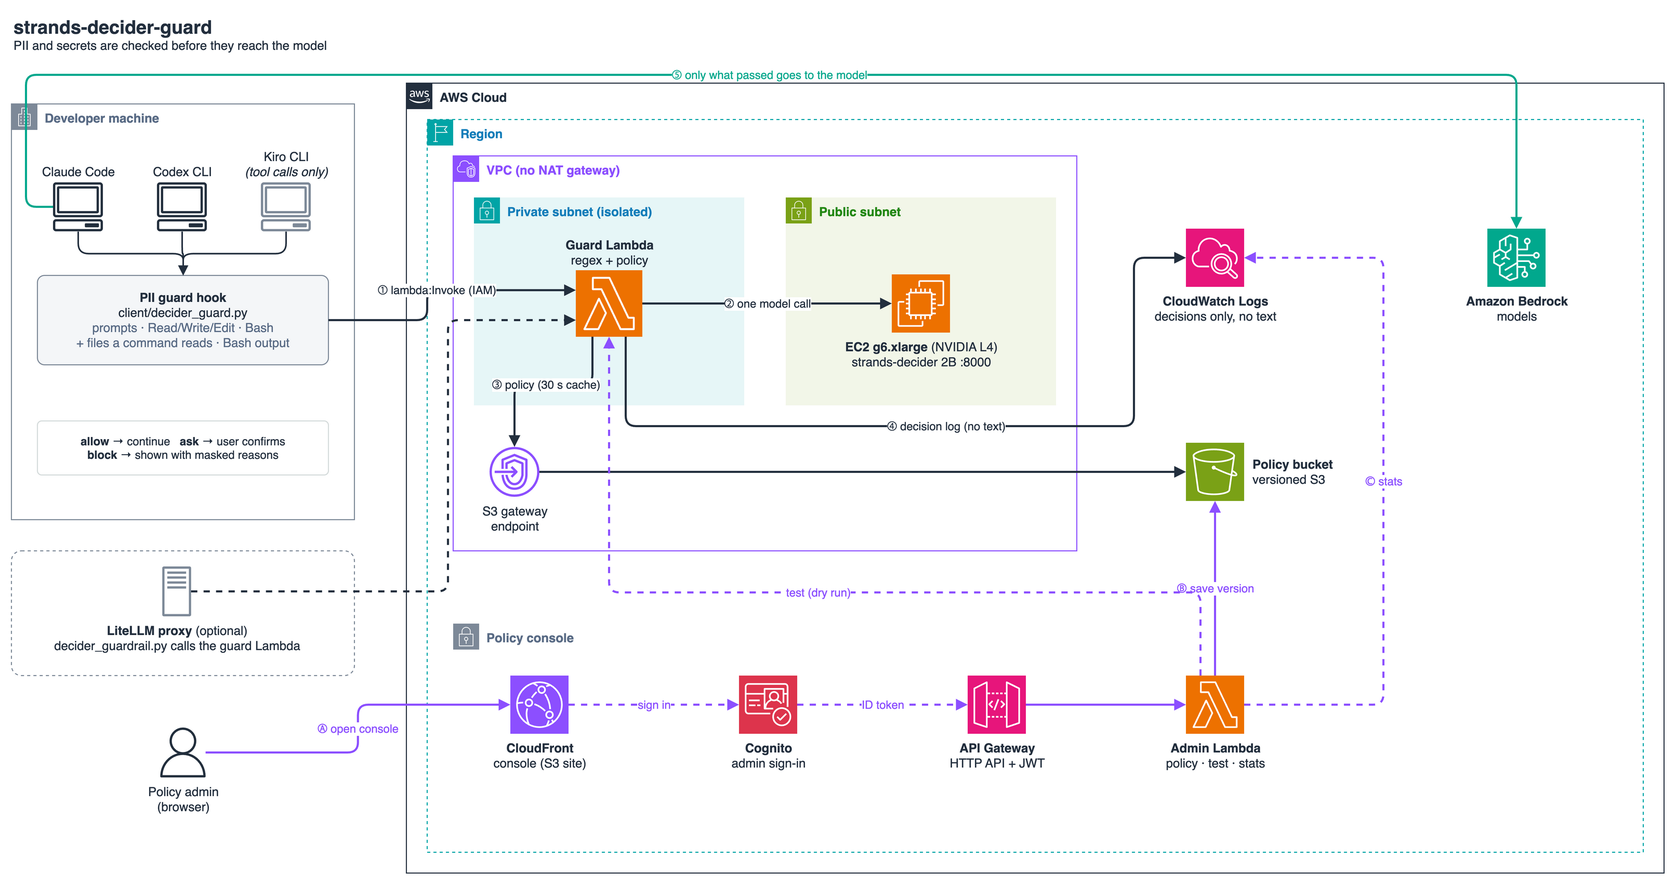
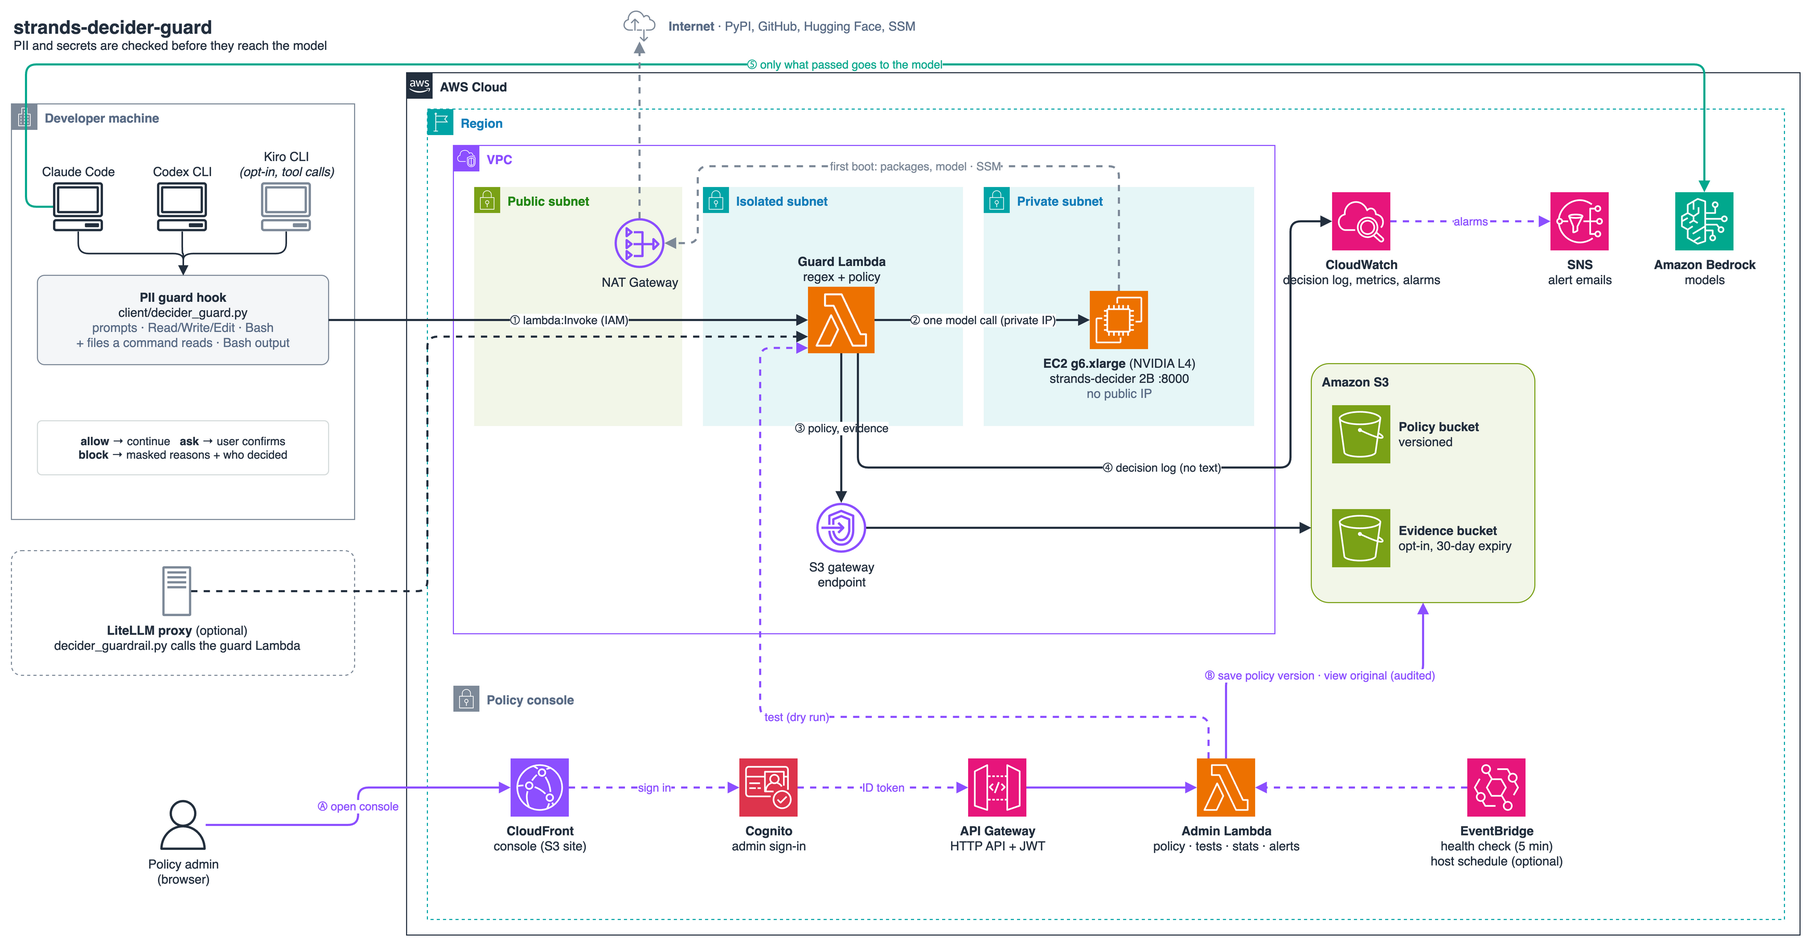
Run the GPU host in a private subnet behind a NAT Gateway by default
- CDK: network context nat (default) | public; host has no public IP in nat mode
- deploy.sh: --network, kept across redeploys; smoke test reads texts from demo data
- Redraw architecture (NAT, private subnet, S3 evidence, SNS, EventBridge); generator in docs/images/architecture.py
- Costs: add NAT (~$43/month), drop host IPv4; regenerate COMPARISON.md

diff --git a/cdk/lib/guard-stack.ts b/cdk/lib/guard-stack.ts
@@ -27,14 +27,20 @@ export class DeciderGuardStack extends cdk.Stack {
     const modelId = ctx('modelId');
     const deciderRef = ctx('deciderRef');
 
-    // No NAT: the decider host sits in a public subnet with no inbound rules except from the guard Lambda,
-    // and the Lambda sits in isolated subnets and only talks to the host's private IP.
+    // network=nat (default): the decider host sits in a private subnet with no public IP; it reaches PyPI, GitHub and
+    //   Hugging Face (first boot) and SSM through one NAT Gateway. network=public: the host sits in a public subnet with
+    //   a public IP and no NAT (cheaper, for demos). Either way the only inbound rule is the guard Lambda on port 8000,
+    //   and the Lambda sits in isolated subnets talking to the host's private IP. The private group is appended last so
+    //   switching modes keeps the existing subnets' CIDRs.
+    const network = (this.node.tryGetContext('network') as string | undefined) ?? 'nat';
+    if (!['nat', 'public'].includes(network)) throw new Error(`network must be nat or public, got ${network}`);
     const vpc = new ec2.Vpc(this, 'Vpc', {
       maxAzs: 2,
-      natGateways: 0,
+      natGateways: network === 'nat' ? 1 : 0,
       subnetConfiguration: [
         { name: 'public', subnetType: ec2.SubnetType.PUBLIC, cidrMask: 24 },
         { name: 'isolated', subnetType: ec2.SubnetType.PRIVATE_ISOLATED, cidrMask: 24 },
+        ...(network === 'nat' ? [{ name: 'private', subnetType: ec2.SubnetType.PRIVATE_WITH_EGRESS, cidrMask: 24 }] : []),
       ],
     });
 
@@ -92,7 +98,7 @@ export class DeciderGuardStack extends cdk.Stack {
     const spot = ['true', true].includes(this.node.tryGetContext('spot'));
     const host = new ec2.Instance(this, 'DeciderHost', {
       vpc,
-      vpcSubnets: { subnetType: ec2.SubnetType.PUBLIC },
+      vpcSubnets: { subnetType: network === 'nat' ? ec2.SubnetType.PRIVATE_WITH_EGRESS : ec2.SubnetType.PUBLIC },
       instanceType: new ec2.InstanceType(instanceType),
       // deploy.sh pins the running host's AMI (-c amiId=...) so a newer DLAMI release does not replace it on redeploy.
       machineImage: ctx('amiId')
@@ -102,7 +108,7 @@ export class DeciderGuardStack extends cdk.Stack {
       role,
       userData,
       requireImdsv2: !spot,   // with Spot, IMDSv2 is set on the launch template below
-      associatePublicIpAddress: true,
+      associatePublicIpAddress: network === 'public',
       blockDevices: [{ deviceName: '/dev/sda1', volume: ec2.BlockDeviceVolume.ebs(100, { volumeType: ec2.EbsDeviceVolumeType.GP3, encrypted: true }) }],
     });
     cdk.Tags.of(host).add('Name', `${this.stackName}-decider`);
@@ -153,6 +159,7 @@ export class DeciderGuardStack extends cdk.Stack {
     new cdk.CfnOutput(this, 'DeciderInstanceId', { value: host.instanceId });
     new cdk.CfnOutput(this, 'Region', { value: this.region });
     new cdk.CfnOutput(this, 'Market', { value: spot ? 'spot' : 'on-demand' });
+    new cdk.CfnOutput(this, 'Network', { value: network });
     new cdk.CfnOutput(this, 'EvidenceBucketName', { value: evidenceBucket.bucketName });
   }
 

diff --git a/docs/images/architecture.py b/docs/images/architecture.py
@@ -1,0 +1,128 @@
+"""Generate docs/images/architecture.drawio (draw.io AWS4 shapes). Edit the layout here or in draw.io, then render:
+   python3 architecture.py architecture.drawio && drawio -x -f png -s 2 -b 10 -o architecture.png architecture.drawio
+"""
+import sys
+from xml.sax.saxutils import escape
+
+cells, n = [], [1]
+def nid():
+    n[0] += 1
+    return f"c{n[0]}"
+
+BASE_ICON = ("sketch=0;outlineConnect=0;fontColor=#232F3E;gradientColor=none;strokeColor=#ffffff;dashed=0;"
+             "verticalLabelPosition=bottom;verticalAlign=top;align=center;html=1;fontSize=12;fontStyle=0;aspect=fixed;")
+LABEL_TOP = "verticalLabelPosition=top;verticalAlign=bottom;"
+LABEL_RIGHT = "labelPosition=right;verticalLabelPosition=middle;align=left;verticalAlign=middle;spacingLeft=6;"
+def service(label, res, color, x, y, size=56, label_at=""):
+    i = nid()
+    st = BASE_ICON + f"fillColor={color};shape=mxgraph.aws4.resourceIcon;resIcon=mxgraph.aws4.{res};"
+    st = st.replace("verticalLabelPosition=bottom;verticalAlign=top;align=center;", "verticalLabelPosition=bottom;verticalAlign=top;align=center;" + label_at)
+    cells.append((i, label, st, x, y, size, size, "1"))
+    return i
+def shape(label, shp, color, x, y, w=48, h=48, parent="1", top=False):
+    i = nid()
+    pos = "verticalLabelPosition=top;verticalAlign=bottom;" if top else "verticalLabelPosition=bottom;verticalAlign=top;"
+    st = (f"sketch=0;outlineConnect=0;fontColor=#232F3E;gradientColor=none;strokeColor=none;dashed=0;{pos}"
+          f"align=center;html=1;fontSize=12;fontStyle=0;aspect=fixed;pointerEvents=1;shape=mxgraph.aws4.{shp};fillColor={color};")
+    cells.append((i, label, st, x, y, w, h, parent))
+    return i
+def group(label, gr, stroke, font, x, y, w, h, fill="none", dashed=0, extra=""):
+    i = nid()
+    st = ("points=[];outlineConnect=0;gradientColor=none;html=1;whiteSpace=wrap;fontSize=12;fontStyle=1;container=0;pointerEvents=0;"
+          f"collapsible=0;recursiveResize=0;shape=mxgraph.aws4.group;grIcon=mxgraph.aws4.{gr};strokeColor={stroke};fillColor={fill};"
+          f"verticalAlign=top;align=left;spacingLeft=30;fontColor={font};dashed={dashed};{extra}")
+    cells.append((i, label, st, x, y, w, h, "1"))
+    return i
+def box(label, x, y, w, h, fill="#FFFFFF", stroke="#232F3E", extra=""):
+    i = nid()
+    st = f"rounded=1;whiteSpace=wrap;html=1;fillColor={fill};strokeColor={stroke};fontColor=#232F3E;fontSize=12;arcSize=8;{extra}"
+    cells.append((i, label, st, x, y, w, h, "1"))
+    return i
+edges = []
+def edge(src, dst, label="", color="#232F3E", dashed=0, pts=None, exit=None, entry=None, width=2):
+    st = (f"edgeStyle=orthogonalEdgeStyle;rounded=1;html=1;endArrow=block;endFill=1;strokeWidth={width};strokeColor={color};"
+          f"fontSize=11;fontColor={color};labelBackgroundColor=#FFFFFF;dashed={dashed};")
+    if exit: st += f"exitX={exit[0]};exitY={exit[1]};exitDx=0;exitDy=0;"
+    if entry: st += f"entryX={entry[0]};entryY={entry[1]};entryDx=0;entryDy=0;"
+    edges.append((nid(), label, st, src, dst, pts or []))
+
+DEV, ADM, NET = "#232F3E", "#8C4FFF", "#7D8998"
+box("<b style='font-size:18px'>strands-decider-guard</b><br>PII and secrets are checked before they reach the model",
+    20, 0, 560, 46, fill="none", stroke="none", extra="align=left;verticalAlign=middle;")
+inet = shape("", "internet_alt2", NET, 604, 0, 40, 30)
+box("<b>Internet</b> · PyPI, GitHub, Hugging Face, SSM", 650, 0, 320, 30, fill="none", stroke="none",
+    extra="align=left;verticalAlign=middle;fontColor=#5A6C86;")
+
+# ---- developer side
+group("Developer machine", "group_corporate_data_center", "#7D8998", "#5A6C86", 20, 90, 330, 400)
+cc = shape("Claude Code", "client", "#232F3D", 60, 165, top=True)
+cx = shape("Codex CLI", "client", "#232F3D", 160, 165, top=True)
+kr = shape("Kiro CLI<br><i>(opt-in, tool calls)</i>", "client", "#7D8998", 260, 165, top=True)
+hook = box("<b>PII guard hook</b><br>client/decider_guard.py<br><font color='#5A6C86'>prompts · Read/Write/Edit · Bash<br>+ files a command reads · Bash output</font>",
+           45, 255, 280, 86, fill="#F4F6F8", stroke="#7D8998")
+box("<b>allow</b> → continue &nbsp; <b>ask</b> → user confirms<br><b>block</b> → masked reasons + who decided", 45, 395, 280, 52,
+    fill="#FFFFFF", stroke="#D5DBDB", extra="fontSize=11;")
+for a_ in (cc, cx, kr):
+    edge(a_, hook, "", color=DEV, width=1.5)
+box("", 20, 520, 330, 120, fill="#FFFFFF", stroke="#7D8998", extra="dashed=1;")
+ll = shape("<b>LiteLLM proxy</b> (optional)<br>decider_guardrail.py calls the guard Lambda", "traditional_server", "#7D8998", 161, 535, 36, 48)
+admin = shape("Policy admin<br>(browser)", "user", "#232F3D", 161, 760)
+
+# ---- AWS
+group("AWS Cloud", "group_aws_cloud_alt", "#232F3E", "#232F3E", 400, 60, 1340, 830)
+group("Region", "group_region", "#00A4A6", "#147EBA", 420, 95, 1305, 780, dashed=1)
+group("VPC", "group_vpc2", "#8C4FFF", "#8C4FFF", 445, 130, 790, 470)
+group("Public subnet", "group_security_group", "#7AA116", "#248814", 465, 170, 200, 230, fill="#F2F6E8", extra="grStroke=0;")
+group("Isolated subnet", "group_security_group", "#00A4A6", "#147EBA", 685, 170, 250, 230, fill="#E6F6F7", extra="grStroke=0;")
+group("Private subnet", "group_security_group", "#00A4A6", "#147EBA", 955, 170, 260, 230, fill="#E6F6F7", extra="grStroke=0;")
+nat = shape("NAT Gateway", "nat_gateway", "#8C4FFF", 600, 200, 48, 48)
+guard = service("<b>Guard Lambda</b><br>regex + policy", "lambda", "#ED7100", 786, 266, size=64, label_at=LABEL_TOP)
+ec2 = service("<b>EC2 g6.xlarge</b> (NVIDIA L4)<br>strands-decider 2B :8000<br><font color='#5A6C86'>no public IP</font>", "ec2", "#ED7100", 1057, 270)
+gwe = shape("S3 gateway<br>endpoint", "endpoints", "#8C4FFF", 794, 474)
+
+logs = service("<b>CloudWatch</b><br>decision log, metrics, alarms", "cloudwatch_2", "#E7157B", 1290, 175)
+sns = service("<b>SNS</b><br>alert emails", "sns", "#E7157B", 1500, 175)
+bedrock = service("<b>Amazon Bedrock</b><br>models", "bedrock", "#01A88D", 1620, 175)
+s3 = box("<b>Amazon S3</b>", 1270, 340, 215, 230, fill="#F2F6E8", stroke="#7AA116",
+         extra="verticalAlign=top;align=left;spacingLeft=8;spacingTop=4;")
+policy = service("<b>Policy bucket</b><br>versioned", "s3", "#7AA116", 1290, 380, label_at=LABEL_RIGHT)
+evid = service("<b>Evidence bucket</b><br>opt-in, 30-day expiry", "s3", "#7AA116", 1290, 480, label_at=LABEL_RIGHT)
+
+group("Policy console", "group_security_group", "#7D8998", "#5A6C86", 445, 650, 1260, 200, extra="grStroke=0;")
+cf = service("<b>CloudFront</b><br>console (S3 site)", "cloudfront", "#8C4FFF", 500, 720)
+cog = service("<b>Cognito</b><br>admin sign-in", "cognito", "#DD344C", 720, 720)
+api = service("<b>API Gateway</b><br>HTTP API + JWT", "api_gateway", "#E7157B", 940, 720)
+adm = service("<b>Admin Lambda</b><br>policy · tests · stats · alerts", "lambda", "#ED7100", 1160, 720)
+eb = service("<b>EventBridge</b><br>health check (5 min)<br>host schedule (optional)", "eventbridge", "#E7157B", 1420, 720)
+
+# ---- flows
+edge(hook, guard, "① lambda:Invoke (IAM)", color=DEV, exit=(1, 0.5), entry=(0, 0.5))
+edge(ll, guard, "", color=DEV, dashed=1, exit=(1, 0.5), entry=(0, 0.75), pts=[(420, 559), (420, 314)])
+edge(guard, ec2, "② one model call (private IP)", color=DEV, exit=(1, 0.5), entry=(0, 0.5))
+edge(guard, gwe, "③ policy, evidence", color=DEV, exit=(0.5, 1), entry=(0.5, 0))
+edge(gwe, s3, "", color=DEV, exit=(1, 0.5), entry=(0, 0.687))
+edge(guard, logs, "④ decision log (no text)", color=DEV, exit=(0.75, 1), entry=(0, 0.5), pts=[(834, 440), (1250, 440), (1250, 203)])
+edge(cc, bedrock, "⑤ only what passed goes to the model", color="#01A88D", exit=(0, 0.5), entry=(0.5, 0), pts=[(34, 189), (34, 52), (1648, 52)])
+edge(ec2, nat, "first boot: packages, model · SSM", color=NET, dashed=1, exit=(0.5, 0), entry=(1, 0.5), pts=[(1085, 150), (680, 150), (680, 224)])
+edge(nat, inet, "", color=NET, dashed=1, exit=(0.5, 0), entry=(0.5, 1))
+edge(logs, sns, "alarms", color=ADM, dashed=1, exit=(1, 0.5), entry=(0, 0.5))
+edge(admin, cf, "Ⓐ open console", color=ADM, exit=(1, 0.5), entry=(0, 0.5))
+edge(cf, cog, "sign in", color=ADM, dashed=1)
+edge(cog, api, "ID token", color=ADM, dashed=1)
+edge(api, adm, "", color=ADM)
+edge(adm, s3, "Ⓑ save policy version · view original (audited)", color=ADM, exit=(0.5, 0), entry=(0.5, 1), pts=[(1188, 640), (1377, 640)])
+edge(adm, guard, "test (dry run)", color=ADM, dashed=1, exit=(0.2, 0), entry=(0, 0.92), pts=[(1171, 680), (740, 680), (740, 325)])
+edge(eb, adm, "", color=ADM, dashed=1, exit=(0, 0.5), entry=(1, 0.5))
+
+out = ['<mxfile host="drawio"><diagram name="architecture" id="arch"><mxGraphModel dx="1600" dy="900" grid="1" gridSize="10" guides="1" '
+       'tooltips="1" connect="1" arrows="1" fold="1" page="1" pageScale="1" pageWidth="1760" pageHeight="1000" background="#FFFFFF" math="0" shadow="0">'
+       '<root><mxCell id="0"/><mxCell id="1" parent="0"/>']
+for i, label, st, x, y, w, h, parent in cells:
+    out.append(f'<mxCell id="{i}" value="{escape(label, {chr(34): "&quot;"})}" style="{st}" vertex="1" parent="{parent}">'
+               f'<mxGeometry x="{x}" y="{y}" width="{w}" height="{h}" as="geometry"/></mxCell>')
+for i, label, st, s, d, pts in edges:
+    pts_xml = "".join(f'<mxPoint x="{px}" y="{py}"/>' for px, py in pts)
+    out.append(f'<mxCell id="{i}" value="{escape(label)}" style="{st}" edge="1" parent="1" source="{s}" target="{d}">'
+               f'<mxGeometry relative="1" as="geometry">{"<Array as=\"points\">" + pts_xml + "</Array>" if pts else ""}</mxGeometry></mxCell>')
+out.append("</root></mxGraphModel></diagram></mxfile>")
+open(sys.argv[1], "w").write("\n".join(out))

diff --git a/bench/compare.py b/bench/compare.py
@@ -14,7 +14,8 @@ from collections import defaultdict
 HERE = os.path.dirname(os.path.abspath(__file__))
 RES = os.path.join(HERE, "results")
 PRICE_PII, PRICE_TOPIC = 0.10 / 1000, 0.15 / 1000          # Seoul list prices per text unit (AWS Pricing API, 2026-10-12)
-GPU_HOURLY, EBS_MONTHLY, IPV4_MONTHLY = 0.9896, 9.12, 3.65    # g6.xlarge on-demand Seoul, 100 GB gp3, one public IPv4
+GPU_HOURLY, EBS_MONTHLY = 0.9896, 9.12        # g6.xlarge on-demand Seoul, 100 GB gp3
+NAT_MONTHLY = 0.059 * 730                       # one NAT Gateway (default network 'nat'), runs 24/7; traffic after first boot is negligible
 PII_SETS = ["ai4privacy", "gretel_finance", "nemotron", "kpii_bench", "ko_synth", "private_life", "dev_public", "dev_synth"]
 
 
@@ -157,8 +158,8 @@ def main():
         ("g6.xlarge Spot, weekdays 08-20", 0.47, HOURS_SCHED, 3.5, "--spot --schedule"),
         ("g4dn.xlarge (T4) on-demand, weekdays 08-20", 0.647, HOURS_SCHED, 1.0, "~3x slower: 0.8-1.0 s per check"),
     ]
-    def host_cost(rate, hours):
-        return rate * hours + EBS_MONTHLY + IPV4_MONTHLY * hours / 730   # the auto-assigned public IP is released while stopped
+    def host_cost(rate, hours, hosts=1):
+        return (rate * hours + EBS_MONTHLY) * hosts + NAT_MONTHLY   # one NAT Gateway per deployment, shared by the hosts
     md += ["### GPU host options", "",
            "Measured on probe instances: g4dn.xlarge (T4) 0.78 s per short check and ~1 check/s; g6f fractional-GPU types ran on CPU "
            "with the GPU image (they need NVIDIA GRID drivers) at ~7 s per check, which also rules out CPU-only instances for interactive hooks.", "",
@@ -172,14 +173,14 @@ def main():
         row = [f"{devs} devs × {per_day}/day, {chars} chars", f"{checks:,}", f"${u * PRICE_PII:,.0f}", f"${u * (PRICE_PII + PRICE_TOPIC):,.0f}"]
         for n, r, h, c, note in (options[0], options[1], options[4], options[5]):
             hosts = max(1, math.ceil(load_avg * 3 / c))   # peak ~3x the average
-            row.append(f"${host_cost(r, h) * hosts:,.0f} ({hosts})")
+            row.append(f"${host_cost(r, h, hosts):,.0f} ({hosts})")
         rows.append(row)
     md += ["### Monthly cost by team size (number of GPU hosts in brackets)", "",
            table(["scenario", "checks/month", "Guardrails PII", "Guardrails PII + topics", "decider 24/7", "decider weekdays 08-20",
                   "decider Spot weekdays 08-20", "decider g4dn weekdays 08-20"], rows), "",
            "Guardrails has no idle cost and is cheapest for small teams; the decider's cost is flat per host, so it wins as volume or "
-           "text length grows, and the schedule + Spot options cut it by about 80 % against on-demand 24/7. Lambda, S3, CloudWatch and "
-           "the console add cents at these volumes.", ""]
+           "text length grows, and the schedule + Spot options cut it by about 75 % against on-demand 24/7. Host costs include 100 GB of EBS and the "
+           "NAT Gateway (~$43/month; `--network public` drops it). Lambda, S3, CloudWatch and the console add cents at these volumes.", ""]
     with open(os.path.join(HERE, "COMPARISON.md"), "w") as f:
         f.write("\n".join(md))
     print("\n".join(md))

diff --git a/README.md b/README.md
@@ -47,10 +47,14 @@ More detail: [Configuration reference](docs/CONFIGURATION.md) · [Policy console
 4. It logs only the decision, types and sizes, never the text.
 5. Only what passed reaches the model.
 
+The GPU host sits in a private subnet with no public IP. It reaches the internet only through a NAT Gateway, to install packages and
+download the model on first boot and to talk to SSM. The guard Lambda runs in isolated subnets with no internet route at all.
+`./deploy.sh --network public` puts the host in a public subnet instead (no NAT cost; its security group still accepts only the guard).
+
 Admins:
 - Ⓐ open the console (CloudFront, Cognito sign-in),
-- Ⓑ save policy versions to S3,
-- Ⓒ see stats computed from the decision log.
+- Ⓑ save policy versions to S3 and, if enabled, view kept original text,
+- see stats and alerts from the decision log and CloudWatch (EventBridge runs a health check every 5 minutes and the optional host schedule).
 
 The diagram source is [`docs/images/architecture.drawio`](docs/images/architecture.drawio); open it in
 [draw.io](https://app.diagrams.net), which includes the AWS icons.
@@ -185,10 +189,11 @@ make destroy                   # delete everything (asks you to type the stack n
 
 | Item | Approximate cost |
 |---|---|
-| GPU host `g6.xlarge` (NVIDIA L4), on-demand 24/7 | ~$735/month in ap-northeast-2 (~$600 in us-east-1) |
-| … only weekdays 08–20 (`SCHEDULE="MON-FRI 08:00-20:00"`) | ~$268/month |
-| … on Spot (`DEPLOY_ARGS=--spot`) + weekdays 08–20 | ~$133/month |
-| EBS gp3 100 GB | ~$9/month, also billed while the host is stopped |
+| GPU host `g6.xlarge` (NVIDIA L4), on-demand 24/7 | ~$731/month in ap-northeast-2 (~$600 in us-east-1) |
+| … only weekdays 08–20 (`SCHEDULE="MON-FRI 08:00-20:00"`) | ~$267/month |
+| … on Spot (`DEPLOY_ARGS=--spot`) + weekdays 08–20 | ~$131/month |
+| EBS gp3 100 GB | ~$9/month, included above; also billed while the host is stopped |
+| NAT Gateway (default `--network nat`) | ~$43/month, runs 24/7; `--network public` removes it |
 | Lambda, API Gateway, CloudFront, Cognito, S3, CloudWatch | near zero at team scale |
 
 - Outside the schedule, during a Spot interruption, or after `make stop`, the guard **falls back to regex-only checks** and keeps working.
@@ -258,7 +263,7 @@ questions only, which is closest to what developers feel.
   (`-c evidenceDays=N`), readable only by console admins, and every view is recorded. Turning it on means that bucket holds the very
   data you are trying to protect, so decide with your privacy officer.
 - Long inputs are sampled: up to 16 chunks of 1,500 characters. The regexes still scan the whole text (up to 256 KB per file).
-- The decider server has no authentication. Only the guard Lambda's security group can reach it. Its behaviour
+- The decider server has no authentication. It has no public IP (default network) and only the guard Lambda's security group can reach it. Its behaviour
   under concurrent requests is not documented upstream.
 - The model is English-first. Korean text and Korean rules worked in our tests; check other languages before relying on them.
 

diff --git a/bench/COMPARISON.md b/bench/COMPARISON.md
@@ -109,20 +109,20 @@ Measured on probe instances: g4dn.xlarge (T4) 0.78 s per short check and ~1 chec
 
 | option | $/month (1 host) | checks/s per host | note |
 |---|---|---|---|
-| g6.xlarge on-demand, 24/7 | $735 | 3.5 | current default |
-| g6.xlarge on-demand, weekdays 08-20 | $268 | 3.5 | --schedule; regex-only outside the window |
-| g6.xlarge 1-yr reserved (no upfront), 24/7 | $483 | 3.5 | commitment; billed even when stopped |
-| g6.xlarge Spot, 24/7 | $356 | 3.5 | --spot; interruptions fall back to regex-only |
-| g6.xlarge Spot, weekdays 08-20 | $133 | 3.5 | --spot --schedule |
-| g4dn.xlarge (T4) on-demand, weekdays 08-20 | $179 | 1.0 | ~3x slower: 0.8-1.0 s per check |
+| g6.xlarge on-demand, 24/7 | $775 | 3.5 | current default |
+| g6.xlarge on-demand, weekdays 08-20 | $310 | 3.5 | --schedule; regex-only outside the window |
+| g6.xlarge 1-yr reserved (no upfront), 24/7 | $522 | 3.5 | commitment; billed even when stopped |
+| g6.xlarge Spot, 24/7 | $395 | 3.5 | --spot; interruptions fall back to regex-only |
+| g6.xlarge Spot, weekdays 08-20 | $175 | 3.5 | --spot --schedule |
+| g4dn.xlarge (T4) on-demand, weekdays 08-20 | $221 | 1.0 | ~3x slower: 0.8-1.0 s per check |
 
 ### Monthly cost by team size (number of GPU hosts in brackets)
 
 | scenario | checks/month | Guardrails PII | Guardrails PII + topics | decider 24/7 | decider weekdays 08-20 | decider Spot weekdays 08-20 | decider g4dn weekdays 08-20 |
 |---|---|---|---|---|---|---|---|
-| 10 devs × 200/day, 1500 chars | 44,000 | $9 | $22 | $735 (1) | $268 (1) | $133 (1) | $179 (1) |
-| 50 devs × 300/day, 2000 chars | 330,000 | $66 | $165 | $735 (1) | $268 (1) | $133 (1) | $358 (2) |
-| 200 devs × 300/day, 2000 chars | 1,320,000 | $264 | $660 | $1,470 (2) | $536 (2) | $266 (2) | $895 (5) |
-| 500 devs × 400/day, 3000 chars | 4,400,000 | $1,320 | $3,300 | $3,676 (5) | $1,341 (5) | $664 (5) | $2,684 (15) |
+| 10 devs × 200/day, 1500 chars | 44,000 | $9 | $22 | $775 (1) | $310 (1) | $175 (1) | $221 (1) |
+| 50 devs × 300/day, 2000 chars | 330,000 | $66 | $165 | $775 (1) | $310 (1) | $175 (1) | $398 (2) |
+| 200 devs × 300/day, 2000 chars | 1,320,000 | $264 | $660 | $1,506 (2) | $577 (2) | $306 (2) | $931 (5) |
+| 500 devs × 400/day, 3000 chars | 4,400,000 | $1,320 | $3,300 | $3,701 (5) | $1,377 (5) | $701 (5) | $2,707 (15) |
 
-Guardrails has no idle cost and is cheapest for small teams; the decider's cost is flat per host, so it wins as volume or text length grows, and the schedule + Spot options cut it by about 80 % against on-demand 24/7. Lambda, S3, CloudWatch and the console add cents at these volumes.
+Guardrails has no idle cost and is cheapest for small teams; the decider's cost is flat per host, so it wins as volume or text length grows, and the schedule + Spot options cut it by about 75 % against on-demand 24/7. Host costs include 100 GB of EBS and the NAT Gateway (~$43/month; `--network public` drops it). Lambda, S3, CloudWatch and the console add cents at these volumes.

diff --git a/docs/CONFIGURATION.md b/docs/CONFIGURATION.md
@@ -109,7 +109,7 @@ connection failure the model is skipped for 30 s, so a stopped host costs ~1.5 s
 ## AWS deployment
 
 `./deploy.sh` flags: `--region`, `--profile`, `--instance-type`, `--admin-email`, `--no-console`, `--schedule`, `--utc-offset`,
-`--spot` / `--on-demand`, `--preflight-only`,
+`--spot` / `--on-demand`, `--network nat|public`, `--preflight-only`,
 `-y`, and `--install-client`. `--install-client` passes `--agents`, `--claude-bedrock`, `--bedrock-region`,
 `--fail-open` and `--language` through to `install.sh`.
 
@@ -125,6 +125,7 @@ The CDK context lives in `cdk/cdk.json`. Override a value with `-c key=value` in
 | `amiId` | — | Set automatically on redeploys so a newer GPU AMI does not replace the running host |
 | `schedule`, `scheduleUtcOffset` | — , `9` | run the host only in this window, e.g. `MON-FRI 08:00-20:00` (`./deploy.sh --schedule … --utc-offset 9`); kept across redeploys, `--schedule none` removes it |
 | `evidenceDays` | `30` | days before kept original text is deleted (evidence bucket lifecycle rule) |
+| `network` | `nat` | `nat`: GPU host in a private subnet with no public IP, internet through one NAT Gateway (~$43/month in Seoul). `public`: host in a public subnet with a public IP and no NAT (the security group still admits only the guard). `--network`; kept across redeploys; switching replaces the host |
 | `spot` | `false` | run the host on Spot, a persistent request that stops on interruption (`--spot` / `--on-demand`; switching replaces the host) |
 
 Guard Lambda environment:
